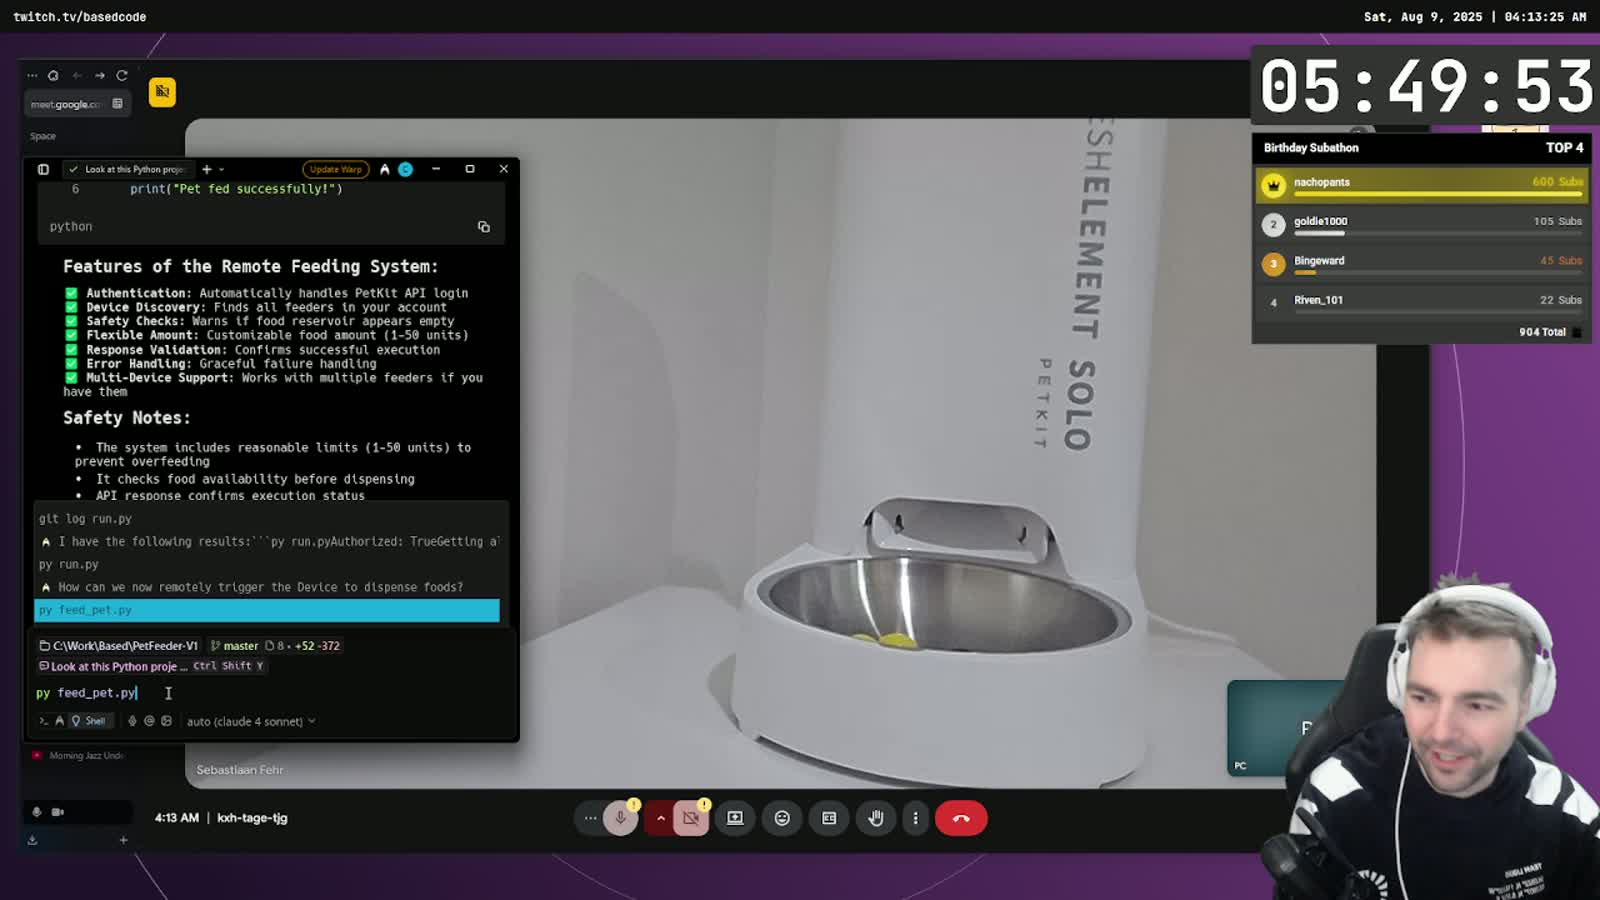
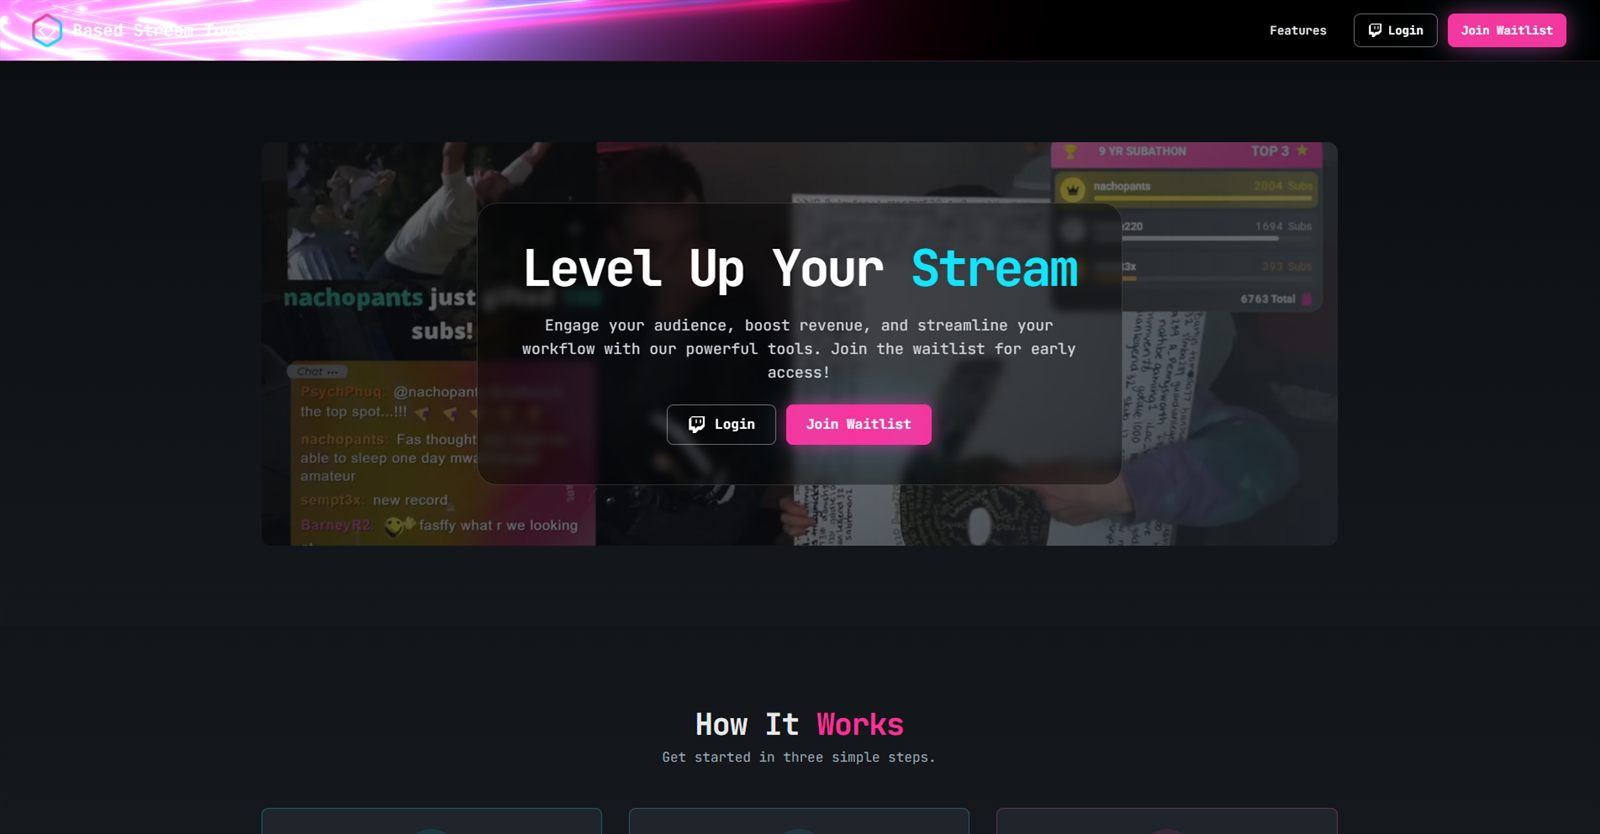
Replace and compress project imagery

diff --git a/app/page.tsx b/app/page.tsx
@@ -42,7 +42,7 @@ const projects = [
     description: "Interactive stream tools, overlays, goal tracking, and playful systems built to bring audiences into the action.",
     href: "https://basedstreamtools.com/",
     image: "/projects/based-stream-tools.jpg",
-    imageAlt: "BasedCode stream showing a custom integration and live stream overlays",
+    imageAlt: "Based Stream Tools website preview with a Level Up Your Stream message",
   },
   {
     index: "03",
@@ -51,7 +51,7 @@ const projects = [
     description: "An arcade-inspired VR first-person shooter packed with rapid-fire, WarioWare-style shooting minigames.",
     href: "https://onpoint.games/",
     image: "/projects/on-point-environment.jpg",
-    imageAlt: "A moonlit castle environment from On Point",
+    imageAlt: "On Point logo surrounded by colourful arcade cabinets and light guns",
   },
 ];
 
